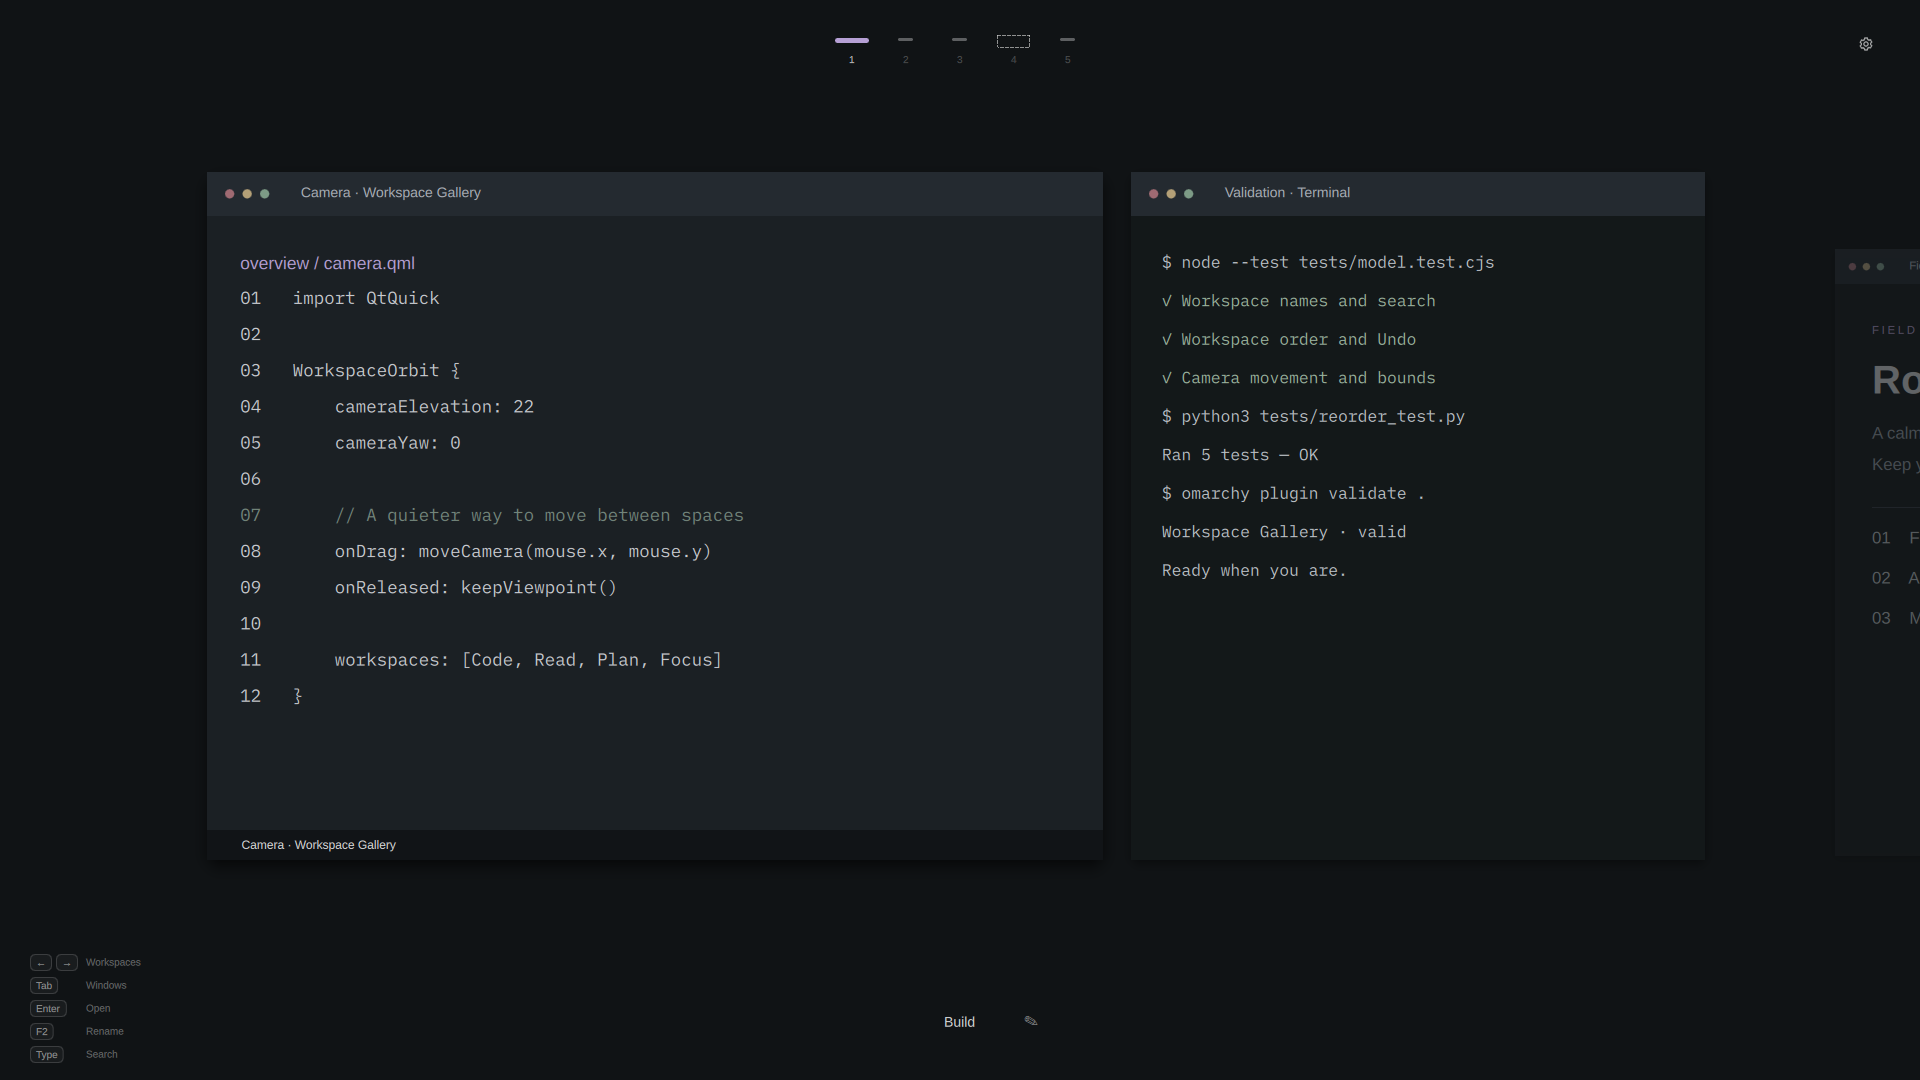
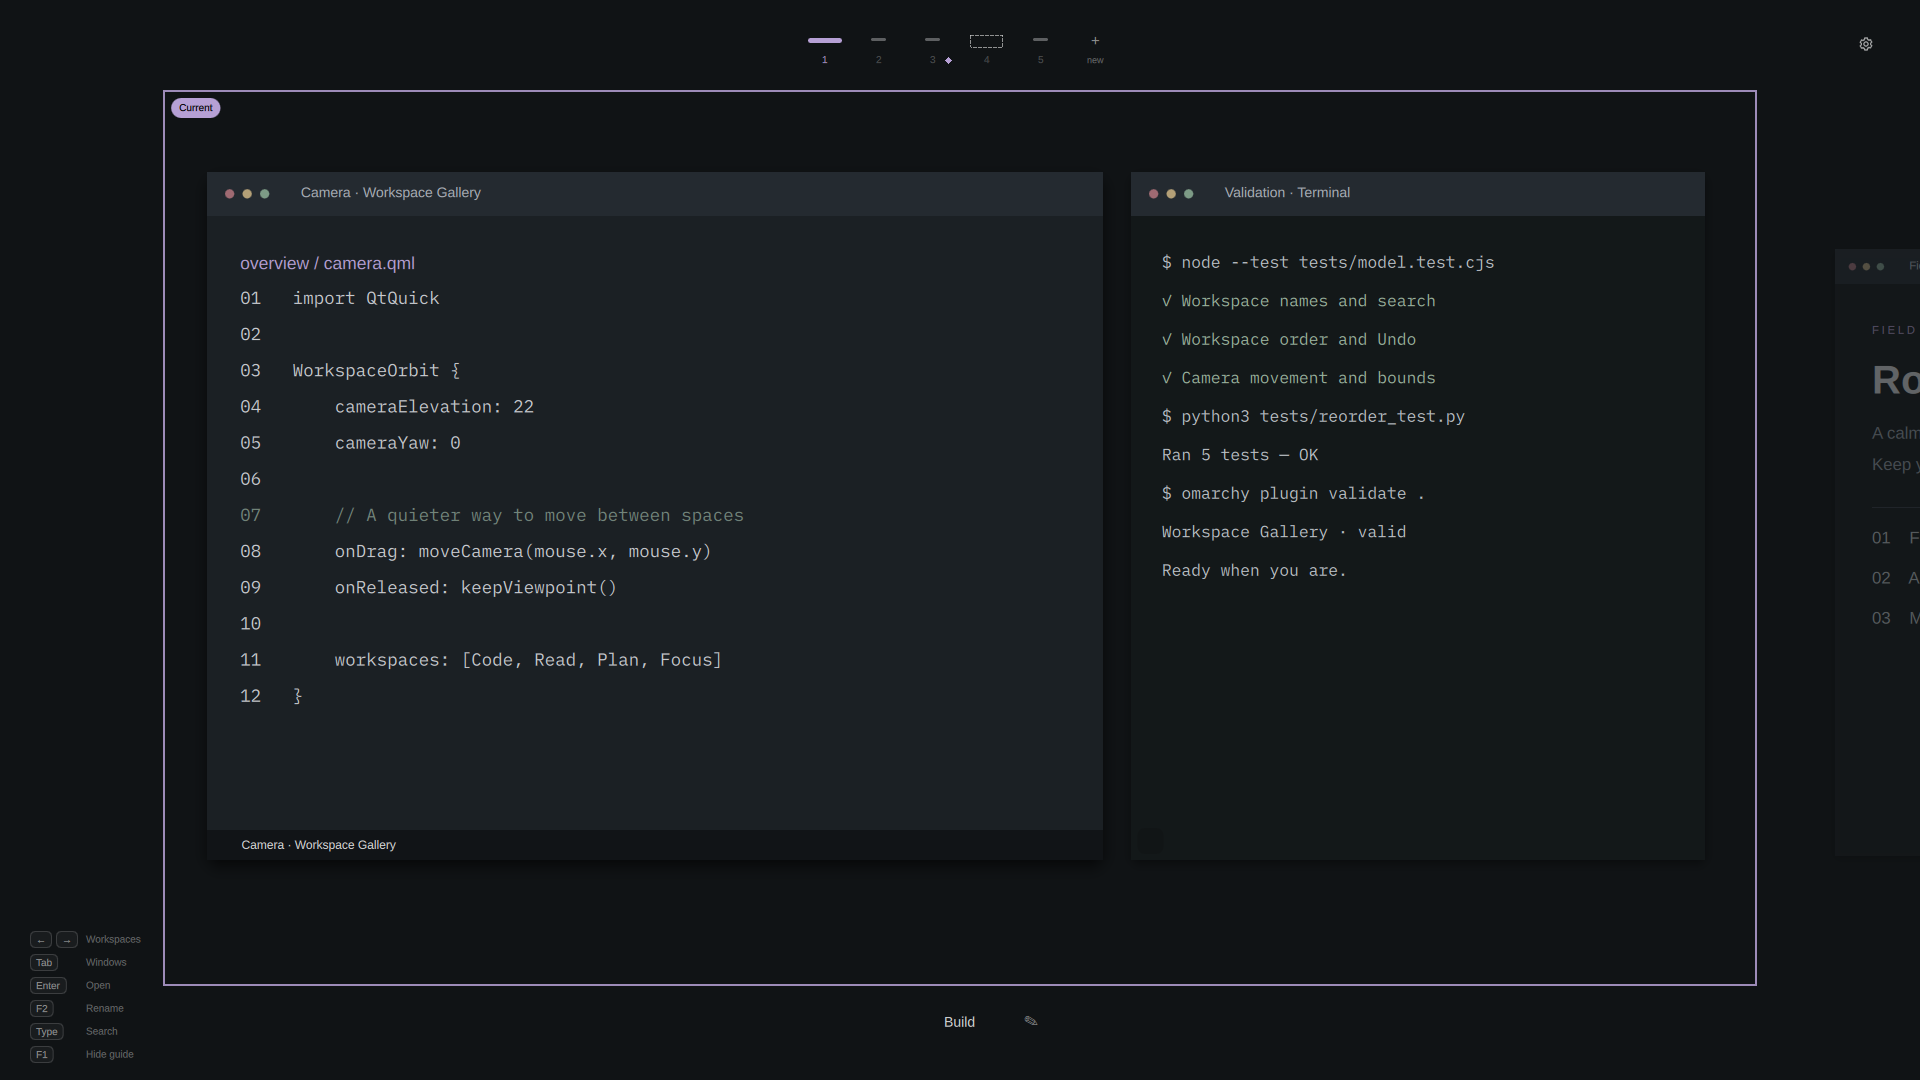
chore: add CI, changelog, manifest test and 1.3.0 docs

diff --git a/tools/preview/tst_preview.qml b/tools/preview/tst_preview.qml
@@ -15,6 +15,9 @@ Rectangle {
         property var workspaceIds: [1, 2, 3, 4, 5]
         property int selectedWorkspace: 1
         property int selectedWindow: 0
+        property int currentWorkspace: 1
+        property var pinnedWorkspaces: [3]
+        property bool showKeyGuide: true
         property int monitorWidth: 1366
         property int monitorHeight: 768
         property var monitorData: ({x: 0, y: 0})
@@ -99,8 +102,8 @@ Rectangle {
         spacing: 6
         Repeater {
             model: scene.mode === 'normal'
-                ? [{keys: ['←', '→'], label: 'Workspaces'}, {keys: ['Tab'], label: 'Windows'}, {keys: ['Enter'], label: 'Open'}, {keys: ['F2'], label: 'Rename'}, {keys: ['Type'], label: 'Search'}]
-                : [{keys: ['Drag'], label: 'Orbit'}, {keys: ['Ctrl + Scroll'], label: 'Zoom'}, {keys: ['←', '→'], label: 'Workspaces'}, {keys: ['Enter'], label: 'Open'}]
+                ? [{keys: ['←', '→'], label: 'Workspaces'}, {keys: ['Tab'], label: 'Windows'}, {keys: ['Enter'], label: 'Open'}, {keys: ['F2'], label: 'Rename'}, {keys: ['Type'], label: 'Search'}, {keys: ['F1'], label: 'Hide guide'}]
+                : [{keys: ['Drag'], label: 'Orbit'}, {keys: ['Ctrl + Scroll'], label: 'Zoom'}, {keys: ['←', '→'], label: 'Workspaces'}, {keys: ['Enter'], label: 'Open'}, {keys: ['F1'], label: 'Hide guide'}]
             Row {
                 required property var modelData
                 spacing: 12

diff --git a/README.md b/README.md
@@ -8,7 +8,7 @@ Searchable workspace previews and a 3D workspace ring for Omarchy.
 
 <p>
   <a href="LICENSE"><img alt="License: MIT" src="https://img.shields.io/badge/license-MIT-yellow.svg"></a>
-  <img alt="Version 1.2.0" src="https://img.shields.io/badge/version-1.2.0-8ab4f8">
+  <img alt="Version 1.3.0" src="https://img.shields.io/badge/version-1.3.0-8ab4f8">
   <img alt="Omarchy Quattro" src="https://img.shields.io/badge/Omarchy-Quattro-a78bfa">
   <img alt="Hyprland 0.56.2" src="https://img.shields.io/badge/Hyprland-0.56.2-58e1ff">
   <img alt="Quickshell 0.3.2" src="https://img.shields.io/badge/Quickshell-0.3.2-7ee787">
@@ -31,10 +31,13 @@ https://github.com/user-attachments/assets/26bdeebb-0f9c-48dc-b6ae-9da0cce2a47e
 | Feature | Description |
 | --- | --- |
 | Two views | The normal overview, or a 3D workspace ring. |
-| Search | Find windows by title, app name, or class. |
-| Reorder | Drag workspace tabs. Shortcuts follow the new order. |
-| Move and undo | Drag windows between workspaces. Undo up to 20 actions. |
+| Search | Find windows by title, app name, class, or workspace name. |
+| Reorder and pin | Drag workspace tabs. Pinned workspaces stay where they are. |
+| Move, close and undo | Drag or key-move windows between workspaces, close them from their preview, and undo up to 20 actions. |
+| Current workspace | The workspace you are on is outlined and labelled. |
+| New workspace | Open the next free workspace from the `+` tab. |
 | Names and motion | Name workspaces. Adjust preview size, duration, and reduced motion. |
+| Key guide | A shortcut legend you can hide with <kbd>F1</kbd>. |
 
 ---
 
@@ -73,7 +76,13 @@ hyprctl configerrors
 
 | Action | Input |
 | --- | --- |
-| Switch workspace | <kbd>←</kbd> <kbd>→</kbd>, scroll, or click a tab |
+| Switch workspace | <kbd>←</kbd> <kbd>→</kbd>, scroll, two-finger swipe, or click a tab |
+| Jump to a workspace | <kbd>Alt</kbd> + <kbd>1</kbd>–<kbd>9</kbd>, <kbd>Home</kbd>, or <kbd>End</kbd> |
+| New workspace | <kbd>Ctrl</kbd> + <kbd>N</kbd> or the `+` tab |
+| Pin or unpin a workspace | <kbd>Ctrl</kbd> + <kbd>P</kbd> |
+| Move the selected window | <kbd>Shift</kbd> + <kbd>←</kbd> <kbd>→</kbd> |
+| Close the selected window | <kbd>Delete</kbd>, the × button, or middle-click |
+| Show or hide the key guide | <kbd>F1</kbd> |
 | Select window | <kbd>Tab</kbd> or <kbd>Shift</kbd> + <kbd>Tab</kbd> |
 | Open workspace or window | <kbd>Enter</kbd> or click |
 | Search | Type, or <kbd>Ctrl</kbd> + <kbd>F</kbd> |
@@ -85,7 +94,7 @@ hyprctl configerrors
 | Zoom the ring (1× to 2×) | <kbd>Ctrl</kbd> + scroll, or trackpad pinch |
 | Reset the view | Double-click the background |
 
-Drag a window preview onto another workspace to move it.
+Drag a window preview onto another workspace to move it. Closing a window sends the application a normal close request, so it can still ask to save. The × button appears after the pointer rests on a preview for a moment, so a quick tap never closes anything.
 
 ---
 
@@ -94,6 +103,9 @@ Drag a window preview onto another workspace to move it.
 - **Rename:** <kbd>F2</kbd>. Names are up to 48 characters. An empty name restores `Workspace N`.
 - **Preview size:** 65–100%.
 - **Transition:** 120–500 ms, or reduced motion.
+- **Key guide:** show or hide the shortcut legend.
+- **Open in ring view:** start in the 3D ring instead of the flat overview.
+- **Pinned workspaces:** <kbd>Ctrl</kbd> + <kbd>P</kbd> keeps a workspace's position when others are reordered.
 
 Settings are saved in this plugin's entry in `~/.config/omarchy/shell.json`.
 
@@ -103,7 +115,8 @@ Settings are saved in this plugin's entry in `~/.config/omarchy/shell.json`.
 
 - Plugins run **unsandboxed** with your permissions. Review the code before you enable it.
 - Window previews stay in memory and are never saved to disk.
-- Nothing is sent to a remote service.
+- Nothing is sent to a remote service. Window titles and workspace names are drawn as plain text, so markup in a title is never interpreted or fetched.
+- Closing a window sends a standard close request and moves or renumbers only what you ask for.
 - Recovery journals are kept in `~/.local/state/omarchy/workspace-reorder/`. They hold metadata only, and the last 20 are kept.
 
 ---

diff --git a/CHANGELOG.md b/CHANGELOG.md
@@ -1,0 +1,29 @@
+# Changelog
+
+## 1.3.0
+
+### Security
+- Window titles, workspace names and status messages are always drawn as plain text, so markup in a title can no longer make the shell fetch a remote image.
+- App icons are only loaded from local sources.
+- IPC `reorder` rejects anything but a short list of integers instead of throwing.
+- The reorder helper keeps the permissions of `shell.json` and keeps its state folder private.
+- A stuck workspace reorder now times out after 30 seconds, so the overview, which holds exclusive keyboard focus, can always be closed.
+- `rollback.py` now removes the shortcut block that `deploy.py` writes, backs up both files first and writes atomically.
+
+### Added
+- Close a window from its preview with the × button or a middle click, or press Delete on the selected window. The button only arms after the pointer rests on the preview.
+- Move the selected window to the previous or next workspace with Shift + Left / Right.
+- Jump with Alt + 1–9, Home and End. Ctrl + N opens a new workspace, and the new `+` tab does the same.
+- Pin a workspace with Ctrl + P so reordering leaves it in place.
+- The current workspace is marked in the previews and tabs. Every window preview shows its app icon.
+- Search also matches workspace names.
+- Preferences for the key guide (F1 toggles it) and for opening in the ring view.
+- A selection outline and stronger depth fade in the ring, and two-finger horizontal swipes change workspace there.
+- GitHub Actions run the model, helper and UI tests.
+
+### Fixed
+- Ctrl + scroll zoom and plain scrolling now work on touchpads and mice.
+- The reorder helper is found when the plugin path contains spaces.
+
+## 1.2.0
+- Searchable, named workspace previews, the 3D ring view, drag to move windows, and workspace reordering with undo.
